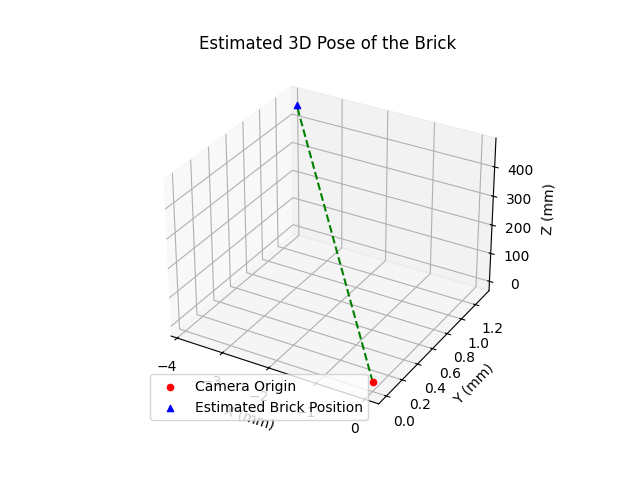
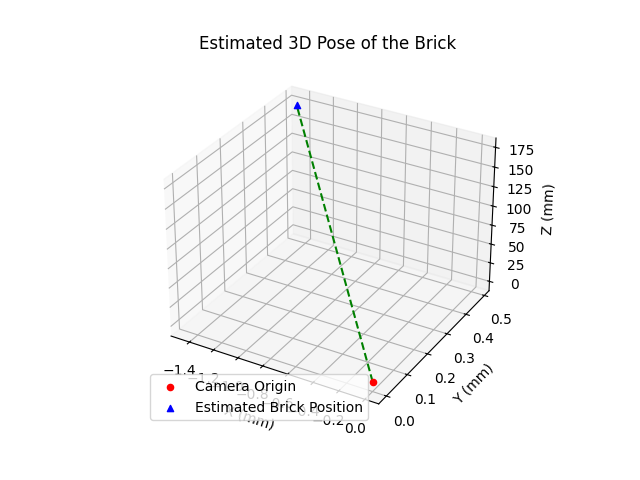
docker

diff --git a/brickpose/views.py b/brickpose/views.py
@@ -1,15 +1,13 @@
-import os
-import json
-import uuid
+from django.shortcuts import render
 from django.http import JsonResponse
 from django.views.decorators.csrf import csrf_exempt
-from django.shortcuts import render
+import os
+import uuid
 from .services.pose_service import PoseService
 from django.conf import settings
 import matplotlib
 matplotlib.use('Agg')
 import matplotlib.pyplot as plt
-from mpl_toolkits.mplot3d import Axes3D
 
 @csrf_exempt
 def process_images_from_request(request):
@@ -56,7 +54,6 @@ def process_images_from_request(request):
         return JsonResponse({'error': str(e)}, status=500)
 
 def format_translation_rotation(translation, rotation):
-    # Convert numpy float64 to regular float
     translation = [float(coord) for coord in translation]
     rotation = [float(angle) for angle in rotation]
 
@@ -64,46 +61,44 @@ def format_translation_rotation(translation, rotation):
     rotation_str = f"Rotation (degrees): [{rotation[0]:.2f}, {rotation[1]:.2f}, {rotation[2]:.2f}]"
 
     return translation_str, rotation_str
-
 def display_results(request):
     folders = sorted([d for d in os.listdir(os.path.join(settings.MEDIA_ROOT, 'place_quality_inputs')) if os.path.isdir(os.path.join(settings.MEDIA_ROOT, 'place_quality_inputs', d))])
 
     selected_folder = request.GET.get('folder')
-    if selected_folder is not None:
+    result = None
+    formatted_translation = None
+    formatted_rotation = None
+    
+    if selected_folder:
         folder_path = os.path.join(settings.MEDIA_ROOT, 'place_quality_inputs', selected_folder)
         color_image_path = os.path.join(folder_path, 'color.png')
         depth_image_path = os.path.join(folder_path, 'depth.png')
         camera_params_path = os.path.join(folder_path, 'cam.json')
 
         result = PoseService.process_image_files(color_image_path, depth_image_path, camera_params_path)
-        result['color_image_path'] = f"{settings.MEDIA_URL}place_quality_inputs/{selected_folder}/color.png"
-        result['depth_image_path'] = f"{settings.MEDIA_URL}place_quality_inputs/{selected_folder}/depth.png"
-        result['processed_image_path'] = f"{settings.MEDIA_URL}results/{os.path.basename(result['processed_image_path'])}"
+        
+        if result:
+            result['color_image_path'] = f"{settings.MEDIA_URL}place_quality_inputs/{selected_folder}/color.png"
+            result['depth_image_path'] = f"{settings.MEDIA_URL}place_quality_inputs/{selected_folder}/depth.png"
+            result['processed_image_path'] = f"{settings.MEDIA_URL}results/{os.path.basename(result['processed_image_path'])}"
 
-        # Format the translation and rotation
-        formatted_translation, formatted_rotation = format_translation_rotation(result['translation'], result['rotation'])
+            formatted_translation, formatted_rotation = format_translation_rotation(result['translation'], result['rotation'])
 
-        # Görselleştirme için output_path'i belirleyin ve visualize_pose fonksiyonunu çağırın
-        output_path = os.path.join(settings.MEDIA_ROOT, 'results', 'pose_visualization.png')
-        os.makedirs(os.path.dirname(output_path), exist_ok=True)
+            output_path = os.path.join(settings.MEDIA_ROOT, 'results', 'pose_visualization.png')
+            os.makedirs(os.path.dirname(output_path), exist_ok=True)
 
-        # Pozisyonu alın ve görselleştirme fonksiyonunu çağırın
-        translation = result.get('translation', [0, 0, 0])  # Translation bilgisini alın
-        visualize_pose(translation, output_path)
+            visualize_pose(result['translation'], output_path)
 
-        # Görselin URL'sini result'a ekleyin
-        result['pose_visualization_path'] = f"{settings.MEDIA_URL}results/pose_visualization.png"
+            result['pose_visualization_path'] = f"{settings.MEDIA_URL}results/pose_visualization.png"
 
-        return render(request, 'result.html', {
-            'result': result,
-            'folders': folders,
-            'selected_folder': selected_folder,
-            'formatted_translation': formatted_translation,
-            'formatted_rotation': formatted_rotation,
-            'pose_visualization_path': result['pose_visualization_path']
-        })
-    
-    return render(request, 'result.html', {'folders': folders})
+    return render(request, 'result.html', {
+        'result': result,
+        'folders': folders,
+        'selected_folder': selected_folder,
+        'formatted_translation': formatted_translation,
+        'formatted_rotation': formatted_rotation,
+        'pose_visualization_path': result.get('pose_visualization_path') if result else None
+    })
 
 def visualize_pose(translation, output_path):
     fig = plt.figure()

diff --git a/brickpose/services/pose_service.py b/brickpose/services/pose_service.py
@@ -1,5 +1,3 @@
-# brickpose/services/pose_service.py
-
 import json
 import cv2
 import numpy as np
@@ -11,16 +9,19 @@ class PoseService:
     @staticmethod
     def process_image_files(color_image_path, depth_image_path, camera_params_path):
         try:
+            # Kamera parametrelerini JSON dosyasından yükleyin
             with open(camera_params_path, 'r') as f:
                 camera_params = json.load(f)
-                
+            
             print(f"DEBUG: Loaded camera parameters: {camera_params}")
 
             if isinstance(camera_params['dist_coeffs'], list):
                 camera_params['dist_coeffs'] = np.array(camera_params['dist_coeffs'])
 
+            # Görüntüleri işleyin ve sonuçları alın
             result = PoseService.process_images(color_image_path, depth_image_path, camera_params)
             
+            # Kamera parametrelerindeki numpy dizisini listeye dönüştürün
             result['camera_params']['dist_coeffs'] = result['camera_params']['dist_coeffs'].tolist()
             
             return result
@@ -33,19 +34,23 @@ class PoseService:
         color_image = cv2.imread(color_image_path)
         depth_image = cv2.imread(depth_image_path, cv2.IMREAD_UNCHANGED)
 
+        if color_image is None or depth_image is None:
+            raise ValueError("Color or depth image could not be loaded.")
+
         # Dummy brick detection and pose estimation (to be replaced with actual algorithm)
         brick_center = (color_image.shape[1] // 2, color_image.shape[0] // 2)
         brick_depth = depth_image[brick_center[1], brick_center[0]] * 0.1  # Depth in mm
 
-        # Translate pixel coordinates to 3D coordinates
+        # 2D pixel coordinates to 3D coordinates conversion
         x = (brick_center[0] - camera_params['px']) * brick_depth / camera_params['fx']
         y = (brick_center[1] - camera_params['py']) * brick_depth / camera_params['fy']
         z = brick_depth
 
         translation = [x, y, z]
 
-        # Dummy rotation values (to be replaced with actual calculation)
-        rotation = [0, 0, 0]  # Roll, pitch, yaw
+        # Calculate normal vector and Euler angles
+        normal_vector = PoseService.calculate_normal_vector([[x, y, z], [x + 0.01, y, z], [x, y + 0.01, z]])
+        rotation = PoseService.calculate_euler_angles(normal_vector)
 
         # Process the image (dummy processing)
         processed_image = cv2.cvtColor(color_image, cv2.COLOR_BGR2GRAY)
@@ -70,3 +75,26 @@ class PoseService:
             'processed_image_path': processed_image_path
         }
         return result
+
+    @staticmethod
+    def calculate_normal_vector(points):
+        v1 = np.array(points[1]) - np.array(points[0])
+        v2 = np.array(points[2]) - np.array(points[0])
+        normal_vector = np.cross(v1, v2)
+        normal_vector = normal_vector / np.linalg.norm(normal_vector)
+        return normal_vector
+
+    @staticmethod
+    def calculate_euler_angles(normal_vector):
+        # Normal vektöründen dönüş matrisini oluşturma
+        z_axis = normal_vector
+        x_axis = np.array([1, 0, 0]) if not np.allclose(z_axis, [1, 0, 0]) else np.array([0, 1, 0])
+        y_axis = np.cross(z_axis, x_axis)
+        y_axis /= np.linalg.norm(y_axis)
+        x_axis = np.cross(y_axis, z_axis)
+        x_axis /= np.linalg.norm(x_axis)
+
+        rotation_matrix = np.vstack([x_axis, y_axis, z_axis]).T
+        r = R.from_matrix(rotation_matrix)
+        euler_angles = r.as_euler('xyz', degrees=True)
+        return euler_angles
